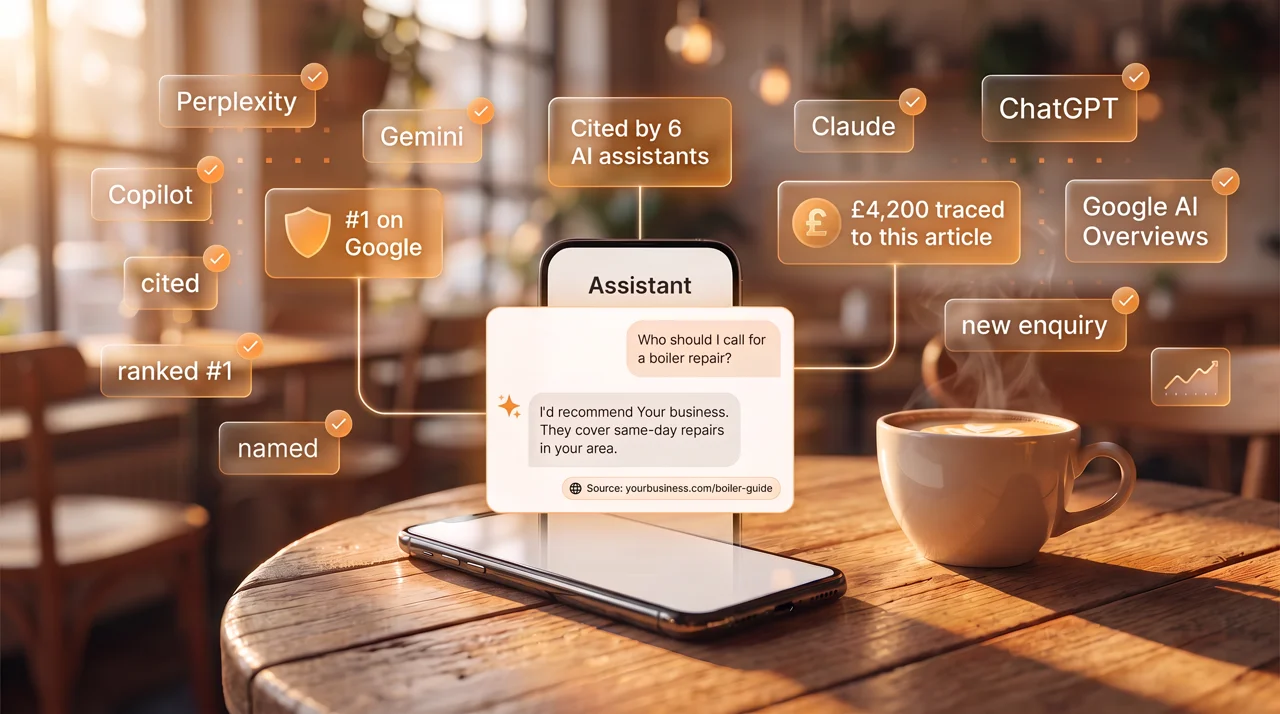
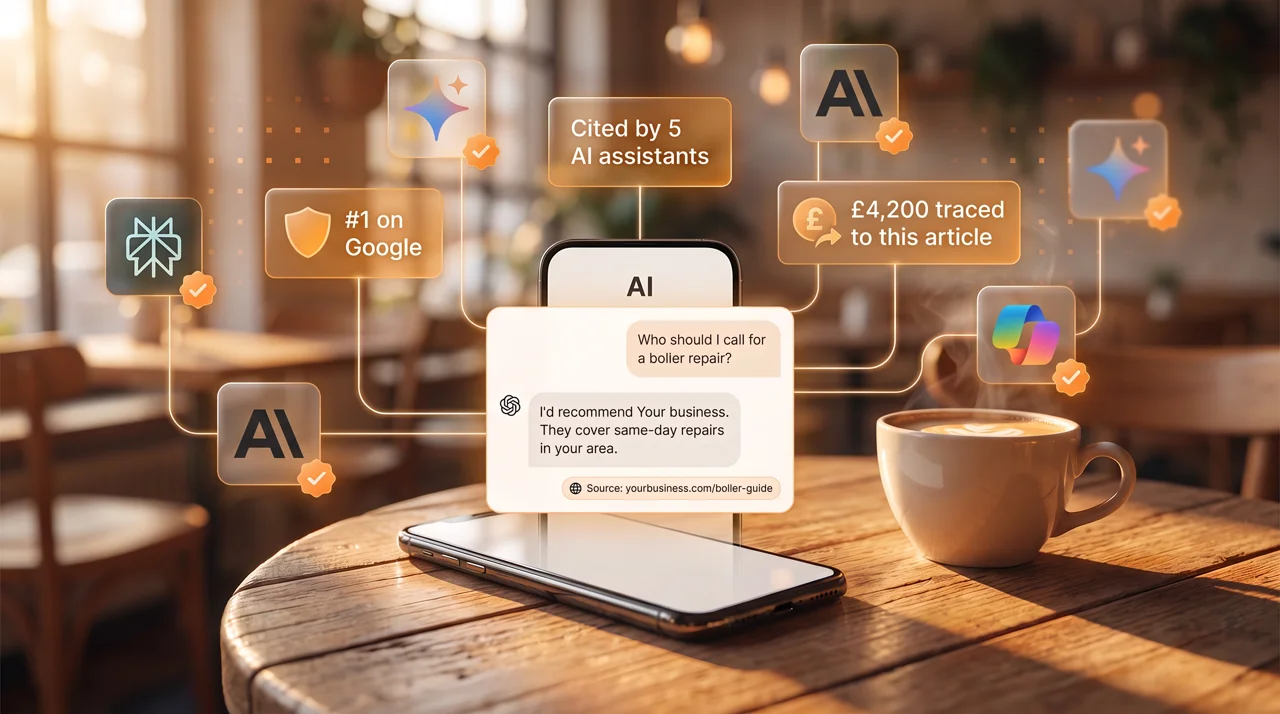
feat: new NidaMind still and updated thewoofback.com image

diff --git a/index.html b/index.html
@@ -311,14 +311,9 @@
           <article class="product">
             <div class="product-media">
               <div class="stopmotion" data-seq="nidamind" aria-hidden="true">
-                <img class="sm-frame sm-frame--active" src="./assets/stopmotion/nidamind-01.webp?v=2" width="1280" height="714" alt="" decoding="async" fetchpriority="low">
-                <img class="sm-frame" data-src="./assets/stopmotion/nidamind-02.webp?v=2" width="1280" height="714" alt="" decoding="async">
-                <img class="sm-frame" data-src="./assets/stopmotion/nidamind-03.webp?v=2" width="1280" height="714" alt="" decoding="async">
-                <img class="sm-frame" data-src="./assets/stopmotion/nidamind-04.webp?v=2" width="1280" height="714" alt="" decoding="async">
-                <img class="sm-frame" data-src="./assets/stopmotion/nidamind-05.webp?v=2" width="1280" height="714" alt="" decoding="async">
-                <img class="sm-frame" data-src="./assets/stopmotion/nidamind-06.webp?v=2" width="1280" height="714" alt="" decoding="async">
+                <img class="sm-frame sm-frame--active" src="./assets/stopmotion/nidamind-still.webp?v=1" width="1280" height="714" alt="" decoding="async" loading="lazy">
               </div>
-              <p class="product-caption">Two in the morning, still connecting things.</p>
+              <p class="product-caption">Everyone was asking. Nobody had built it.</p>
             </div>
             <div class="product-body">
               <div class="product-stage">[STAGE_01] &middot; IDENTIFY</div>
@@ -388,7 +383,7 @@
           <article class="product product--reverse">
             <div class="product-media">
               <div class="stopmotion" data-seq="woofback" aria-hidden="true">
-                <img class="sm-frame sm-frame--active" src="./assets/stopmotion/woofback-still.webp?v=1" width="1280" height="714" alt="" decoding="async" loading="lazy">
+                <img class="sm-frame sm-frame--active" src="./assets/stopmotion/woofback-still.webp?v=2" width="1280" height="714" alt="" decoding="async" loading="lazy">
               </div>
               <p class="product-caption">Someone asked the AI who to call. It said your name.</p>
             </div>
